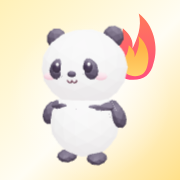
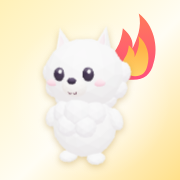
要拚要猛 v2.2：自動更新修正深紫色畫面、火焰開始鈕、狐狸犬圖示
- 修正：iPhone 一直顯示舊版（深色模式的深紫色畫面）。原因是 App 把舊檔案存在手機裡，
  要按「更新」才會換新版。改成有網路時一律先抓網站最新檔案，新版自動安裝並切換。
- 頁面最前面加上固定淺色設定，深色模式下也維持淡黃＋白色
- 「🚀 開始」按鈕與起步畫面改成 🔥
- 主畫面圖示改為白色狐狸犬＋火焰，淡黃色背景

Claude-Session: https://claude.ai/code/session_01WrG3Vh7gMHyQrMiTKxoVmX

Changed region(s): [[0.2222, 0.1389, 0.75, 0.9444], [0.2222, 0.5, 0.3889, 0.7778], [0.3611, 0.5, 0.4444, 0.5278]]

diff --git a/js/app.js b/js/app.js
@@ -231,7 +231,7 @@ function taskCard(t, day, isLate) {
     <div class="actions">
       ${t.startedAt
         ? `<button class="btn ok" data-act="finish" data-id="${t.id}" ${left ? 'disabled' : ''}>${left ? `還有 ${left} 個步驟` : '✅ 完成！'}</button>`
-        : `<button class="btn go" data-act="start" data-id="${t.id}">🚀 開始</button>`}
+        : `<button class="btn go" data-act="start" data-id="${t.id}">🔥 開始</button>`}
     </div>
   </div>`;
 }
@@ -285,7 +285,7 @@ function openLaunch(id) {
   if (!t) return;
   openSheet((sh) => ({
     html: `<div class="launch">
-      <div class="rocket">🚀</div>
+      <div class="rocket">🔥</div>
       <div class="only">${t.firstStep ? '現在只要做這一小步就好' : '現在只要開始做就好'}</div>
       <div class="stepbig">${esc(t.firstStep || t.title)}</div>
       <p class="soft">只要 2 分鐘，做完想停也可以。<br>先動起來，其他的等等再說 🌷</p>
@@ -1101,7 +1101,7 @@ function viewSettings() {
     <div class="set-group">
       <button class="set-row danger" data-act="reset"><span class="si">🧹</span><span class="st"><b>清除所有資料</b><span>任務、動物、貼紙都會刪除，無法復原</span></span></button>
     </div>
-    <p class="muted small" style="text-align:center">要拚要猛 v2.1</p>
+    <p class="muted small" style="text-align:center">要拚要猛 v2.2</p>
     <input type="file" id="import-file" accept="application/json,.json" hidden>
   `;
   return {
@@ -1232,16 +1232,15 @@ if ('serviceWorker' in navigator && location.protocol !== 'file:') {
     refreshing = true;
     location.reload();
   });
-  navigator.serviceWorker.register('sw.js').then((reg) => {
-    const offer = (w) => toast('有新版本可以更新 ✨', { label: '更新', fn: () => w.postMessage('skipWaiting') }, 15000);
-    if (reg.waiting && navigator.serviceWorker.controller) offer(reg.waiting);
+  navigator.serviceWorker.register('sw.js', { updateViaCache: 'none' }).then((reg) => {
+    // 新版會自動安裝並切換（切換後頁面自動重新整理）；萬一卡在等待中，直接叫它接手
+    if (reg.waiting) reg.waiting.postMessage('skipWaiting');
     reg.addEventListener('updatefound', () => {
       const w = reg.installing;
-      w && w.addEventListener('statechange', () => {
-        if (w.state === 'installed' && navigator.serviceWorker.controller) offer(w);
-      });
+      w && w.addEventListener('statechange', () => { if (w.state === 'installed') w.postMessage('skipWaiting'); });
     });
-    setInterval(() => reg.update().catch(() => {}), 3600e3);
+    reg.update().catch(() => {});
+    document.addEventListener('visibilitychange', () => { if (!document.hidden) reg.update().catch(() => {}); });
   }).catch((e) => console.warn('SW 註冊失敗', e));
 }
 

diff --git a/sw.js b/sw.js
@@ -1,6 +1,7 @@
 // Service Worker：在背景把 App 的檔案存到手機裡，讓 App 沒網路也能打開。
-// 每次更新 App 時，把 VERSION 改掉，手機就會下載新版本。
-const VERSION = 'v2.1.0';
+// 有網路時一律先抓網站上最新的檔案（網路優先），沒網路才用手機裡存的版本。
+// 新版本會自動安裝、自動切換，不需要使用者按「更新」。
+const VERSION = 'v2.2.0';
 const CACHE = `ypym-app-${VERSION}`;
 const FILES = [
   './',
@@ -19,7 +20,8 @@ const FILES = [
 ];
 
 self.addEventListener('install', (e) => {
-  e.waitUntil(caches.open(CACHE).then((c) => c.addAll(FILES)));
+  self.skipWaiting(); // 不等舊版關掉，直接換成新版
+  e.waitUntil(caches.open(CACHE).then((c) => c.addAll(FILES.map((f) => new Request(f, { cache: 'reload' })))));
 });
 
 self.addEventListener('activate', (e) => {
@@ -35,17 +37,30 @@ self.addEventListener('message', (e) => {
   if (e.data === 'skipWaiting') self.skipWaiting();
 });
 
+// 網路優先：抓得到最新檔案就用最新的並順便存起來；4 秒內沒回應或沒網路，才用手機裡存的
+function fromNetwork(req) {
+  return new Promise((resolve, reject) => {
+    const timer = setTimeout(() => reject(new Error('timeout')), 4000);
+    fetch(req, { cache: 'no-cache' }).then((res) => { clearTimeout(timer); resolve(res); }, (err) => { clearTimeout(timer); reject(err); });
+  });
+}
 self.addEventListener('fetch', (e) => {
   const req = e.request;
   if (req.method !== 'GET' || new URL(req.url).origin !== location.origin) return;
   e.respondWith((async () => {
     const cache = await caches.open(CACHE);
-    const hit = await cache.match(req, { ignoreSearch: true });
-    if (hit) return hit;
-    if (req.mode === 'navigate') {
-      const shell = await cache.match('./index.html');
-      if (shell) return shell;
+    try {
+      const res = await fromNetwork(req);
+      if (res && res.ok) cache.put(req, res.clone()).catch(() => {});
+      return res;
+    } catch {
+      const hit = await cache.match(req, { ignoreSearch: true });
+      if (hit) return hit;
+      if (req.mode === 'navigate') {
+        const shell = await cache.match('./index.html');
+        if (shell) return shell;
+      }
+      return Response.error();
     }
-    return fetch(req);
   })());
 });

diff --git a/index.html b/index.html
@@ -15,7 +15,9 @@
   <link rel="apple-touch-icon" href="icons/icon-180.png">
   <link rel="icon" type="image/png" href="icons/icon-192.png">
   <link rel="manifest" href="manifest.json">
-  <link rel="stylesheet" href="css/style.css">
+  <!-- 固定淺色：不管 iPhone 是否開深色模式，都用淡黃＋白色 -->
+  <style>:root, html, body { color-scheme: light only; background: #FFFBEA; color: #4A4032; }</style>
+  <link rel="stylesheet" href="css/style.css?v=2.2">
   <!-- import map：告訴瀏覽器 'three' 這個名字對應到哪個檔案 -->
   <script type="importmap">{ "imports": { "three": "./vendor/three/three.module.min.js" } }</script>
 </head>
@@ -33,6 +35,6 @@
   <div id="sheet-root"></div>
   <div id="toast" class="toast" hidden></div>
   <noscript>請開啟 JavaScript 才能使用「要拚要猛」。</noscript>
-  <script type="module" src="js/app.js"></script>
+  <script type="module" src="js/app.js?v=2.2"></script>
 </body>
 </html>
